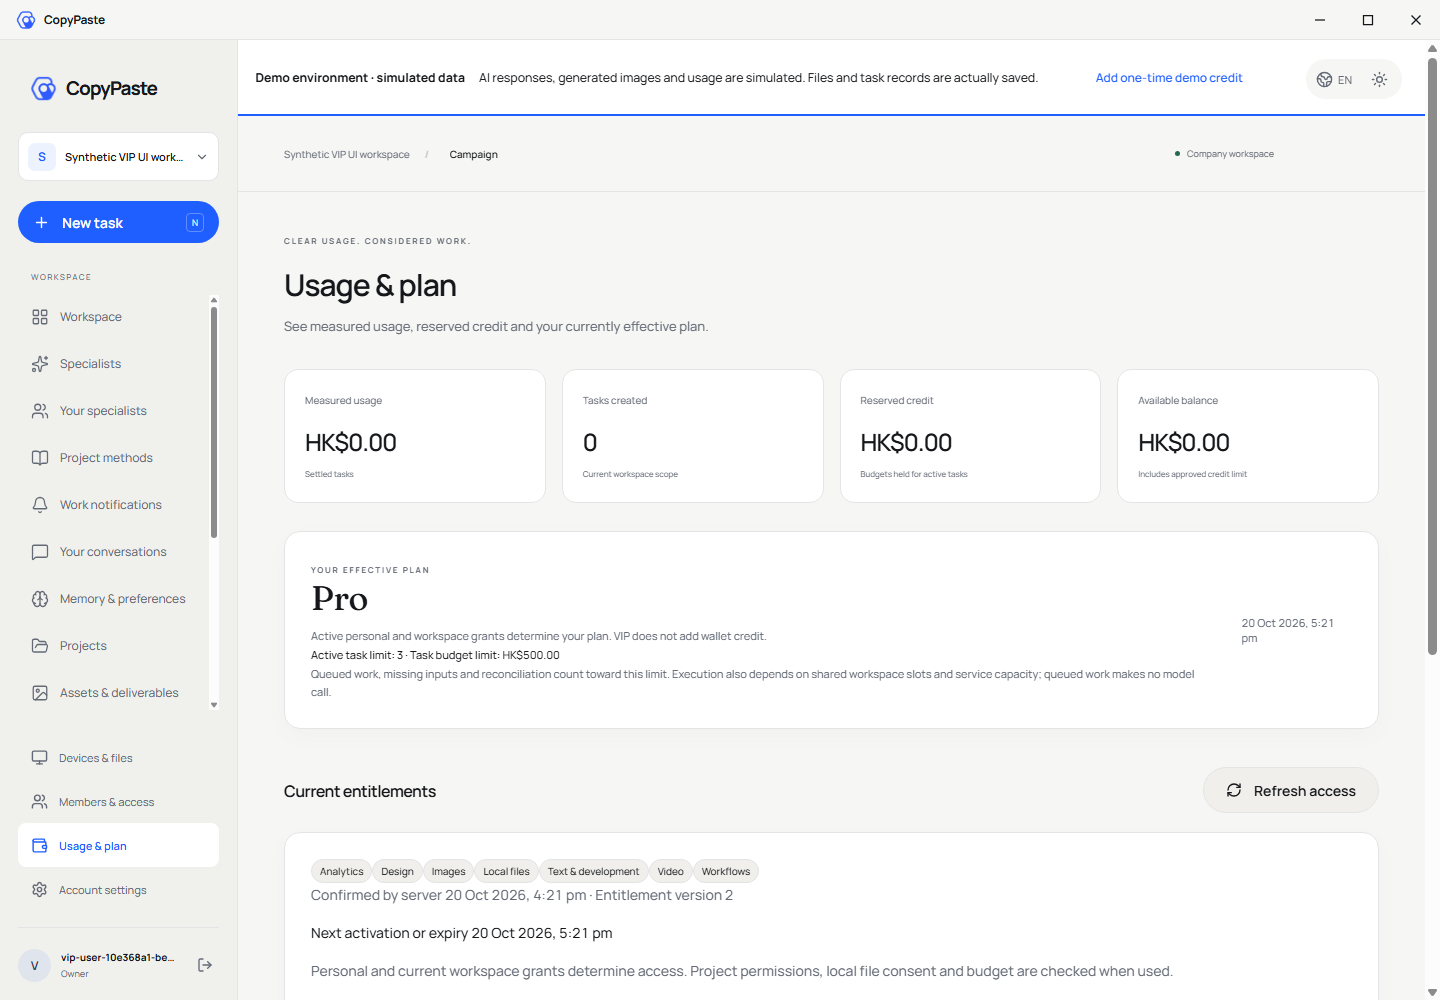
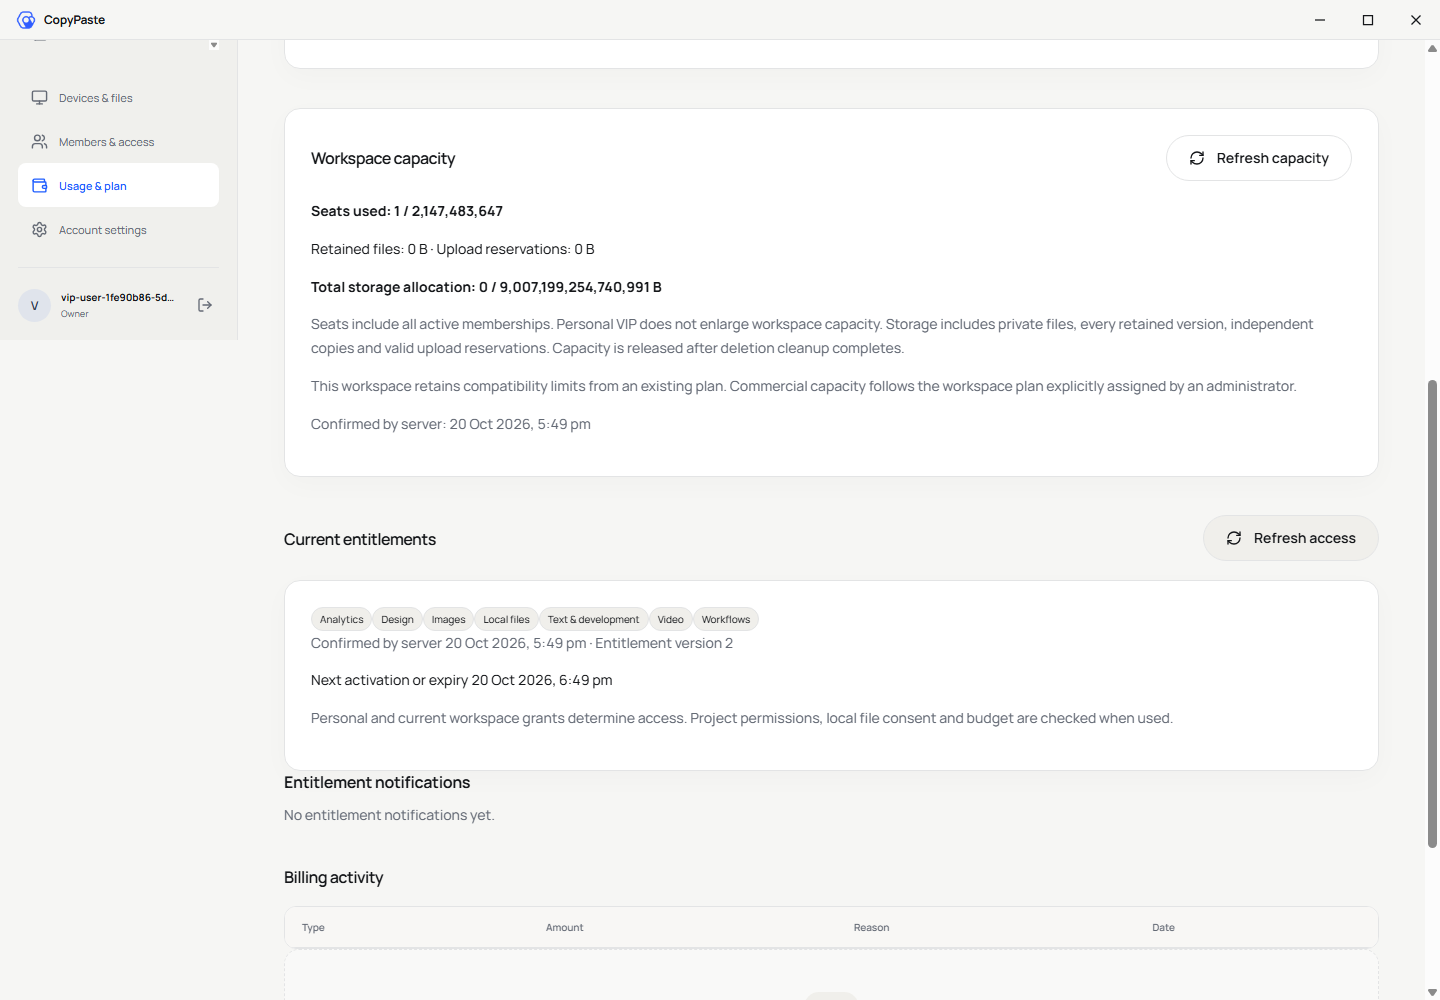
Sync workspace capacity into the frameless renderer

diff --git a/renderer/src/resource-usage.tsx b/renderer/src/resource-usage.tsx
@@ -1,0 +1,87 @@
+import { useState } from "react";
+import { RefreshCw } from "lucide-react";
+import { DateText, ErrorNotice, Loading, useData, useI18n } from "./ui";
+
+export function ResourceUsage({
+  tenant,
+  revision = 0,
+}: {
+  tenant: string;
+  revision?: number;
+}) {
+  const { t } = useI18n(),
+    [refresh, setRefresh] = useState(0);
+  const { data, error, loading } = useData(
+    `/v1/tenants/${tenant}/resource-usage`,
+    revision + refresh,
+    15000,
+  );
+  return (
+    <section
+      className="card section-block"
+      aria-label={t("企業容量", "Workspace capacity")}
+    >
+      <div className="section-title">
+        <h2>{t("企業容量", "Workspace capacity")}</h2>
+        <button
+          className="button secondary"
+          onClick={() => setRefresh((n) => n + 1)}
+        >
+          <RefreshCw size={16} />
+          {t("更新容量", "Refresh capacity")}
+        </button>
+      </div>
+      <ErrorNotice error={error} />
+      {loading && <Loading />}
+      {data && (
+        <>
+          <p>
+            <strong>
+              {t("已用席位", "Seats used")}: {data.seats.used.toLocaleString()}{" "}
+              / {data.seats.limit.toLocaleString()}
+            </strong>
+          </p>
+          <p>
+            {t("已保留檔案", "Retained files")}:{" "}
+            {BigInt(data.storage.used_bytes).toLocaleString()} B ·{" "}
+            {t("上傳預留", "Upload reservations")}:{" "}
+            {BigInt(data.storage.reserved_bytes).toLocaleString()} B
+          </p>
+          <p>
+            <strong>
+              {t("總存儲佔用", "Total storage allocation")}:{" "}
+              {BigInt(data.storage.total_bytes).toLocaleString()} /{" "}
+              {BigInt(data.storage.limit_bytes).toLocaleString()} B
+            </strong>
+          </p>
+          {(data.seats.over_limit || data.storage.over_limit) && (
+            <p className="notice" role="status">
+              {t(
+                "目前佔用超出方案容量。已有成員和檔案會保留；請完成清理、移除成員或聯絡管理員調整企業方案，再新增佔用。",
+                "Current allocation exceeds this plan. Existing members and files remain available. Complete cleanup, remove a membership or contact an administrator to change the workspace plan before adding capacity.",
+              )}
+            </p>
+          )}
+          <p className="muted">
+            {t(
+              "席位包含所有啟用成員；個人 VIP 不會擴大企業容量。存儲包含私人檔案、每個歷史版本、獨立副本及有效上傳預留。刪除完成清理後才釋放容量。",
+              "Seats include all active memberships. Personal VIP does not enlarge workspace capacity. Storage includes private files, every retained version, independent copies and valid upload reservations. Capacity is released after deletion cleanup completes.",
+            )}
+          </p>
+          {data.legacy_compatibility_limits && (
+            <p className="muted">
+              {t(
+                "此企業沿用既有方案的相容上限。具體商業容量以管理員明確授予的企業方案為準。",
+                "This workspace retains compatibility limits from an existing plan. Commercial capacity follows the workspace plan explicitly assigned by an administrator.",
+              )}
+            </p>
+          )}
+          <p className="muted">
+            {t("伺服器確認時間", "Confirmed by server")}:{" "}
+            <DateText value={data.as_of} />
+          </p>
+        </>
+      )}
+    </section>
+  );
+}

diff --git a/renderer/src/entitlements.tsx b/renderer/src/entitlements.tsx
@@ -2,6 +2,7 @@ import { useEffect, useState } from "react";
 import { RefreshCw } from "lucide-react";
 import { api } from "./api";
 import { DateText, ErrorNotice, Loading, Money, useI18n } from "./ui";
+import { ResourceUsage } from "./resource-usage";
 
 /** A tenant change unmounts this panel. Requests also carry the API session
  * revision, so a late response cannot repopulate a signed-out user's rights. */
@@ -132,6 +133,7 @@ export function Entitlements({ tenant }: { tenant: string }) {
           <DateText value={data.plan_details.ends_at} />
         )}
       </section>
+      <ResourceUsage key={tenant} tenant={tenant} revision={revision} />
       <section className="section-block">
         <div className="section-title">
           <h2>{t("目前可用權益", "Current entitlements")}</h2>

diff --git a/renderer/src/members.tsx b/renderer/src/members.tsx
@@ -3,6 +3,7 @@ import { Plus } from "lucide-react";
 import { api, patch, post } from "./api";
 import { completeOperation, operationKey } from "./operation-key";
 import { useWorkspace } from "./context";
+import { ResourceUsage } from "./resource-usage";
 import {
   AsyncForm,
   Badge,
@@ -101,6 +102,7 @@ export function Members() {
           </button>
         }
       />
+      <ResourceUsage key={w.tenant} tenant={w.tenant} revision={refresh} />
       <ErrorNotice error={members.error} />
       {members.loading && !members.data && <Loading />}
       <div className="card table-scroll">

diff --git a/README.en.md b/README.en.md
@@ -300,3 +300,11 @@ Manual and scheduled refresh update the plan and rights together. A mismatch bet
 ![Actual suspension restores the free plan and limits](assets/screenshots/27-vip-suspended-rights.png)
 
 The adjacent Delivery repository generates `qa:native-surfaces` and `qa:native-vip` receipts. `evidence/native-vip.json` binds 790 source files and the runtime, installers and extension bytes. The independent renderer snapshot contains 46 recorded file digests and builds from its own clone.
+
+## Enterprise seat and storage enforcement (stage 48)
+
+The independent renderer now includes workspace capacity with 47 source entries. Usage and Members read seats, retained bytes, upload reservations and limits through the existing restricted IPC bridge. Session/scope changes and failed reads clear stale data. Setup, Portable and the actual preview runtime were rebuilt. The window remains frameless with custom controls and no native Electron menu.
+
+Ten native appearance checks, six packaged Desktop/actual Side Panel integration checks and twelve source authentication checks have separate receipts. Overlapping checks do not establish complete installation, system, SSO or production acceptance.
+
+![Actual rebuilt desktop preview](assets/screenshots/26-vip-effective-rights.png)

diff --git a/README.md b/README.md
@@ -324,3 +324,11 @@ flowchart LR
 ![实际暂停后回到免费方案和配额](assets/screenshots/27-vip-suspended-rights.png)
 
 回执由相邻 Delivery 仓库的 `qa:native-surfaces`、`qa:native-vip` 生成；`evidence/native-vip.json` 保存 790 份源码及原生运行时／安装器／扩展字节绑定。独立 renderer 当前有 46 项摘要，新仓库克隆可自行构建。
+
+## 企业席位与存储执行（阶段 48）
+
+独立 renderer 已同步企业容量组件，当前来源清单为 47 项。用量页和成员页通过既有限定 IPC 读取席位、保留字节、上传预留及上限；登录/退出、工作区切换和读取失败遵守共用状态清理。预览 Setup、Portable 和实际运行目录已重新构建；无边框、自绘窗口按钮、无默认菜单规则继续生效。
+
+当前原生外观十组、打包 Desktop/真实 Side Panel 联调六组及源码认证十二组分别记录；不将重叠检查算作完整安装、系统、SSO或生产验收。
+
+![实际新桌面预览](assets/screenshots/26-vip-effective-rights.png)
